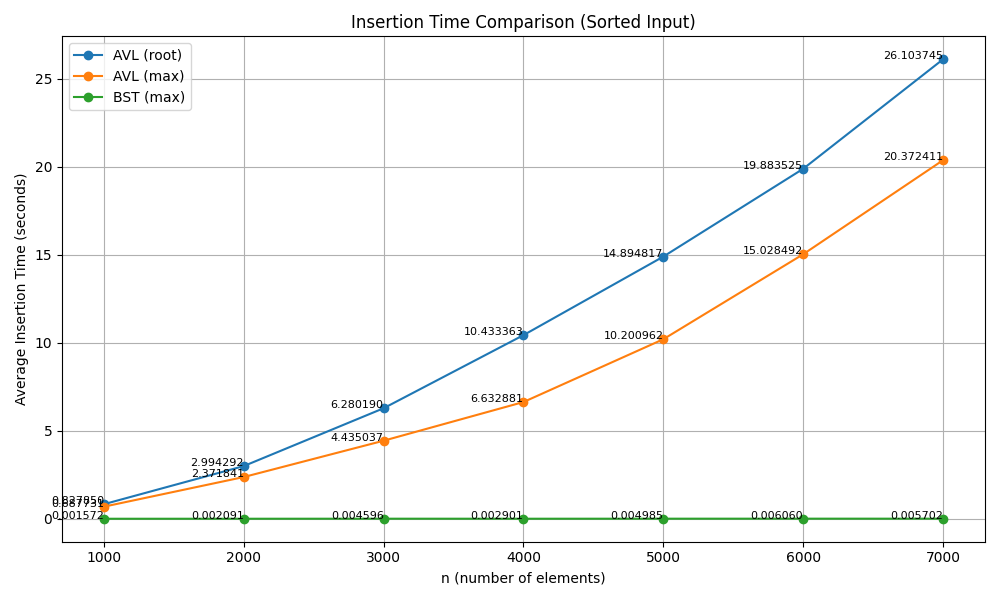
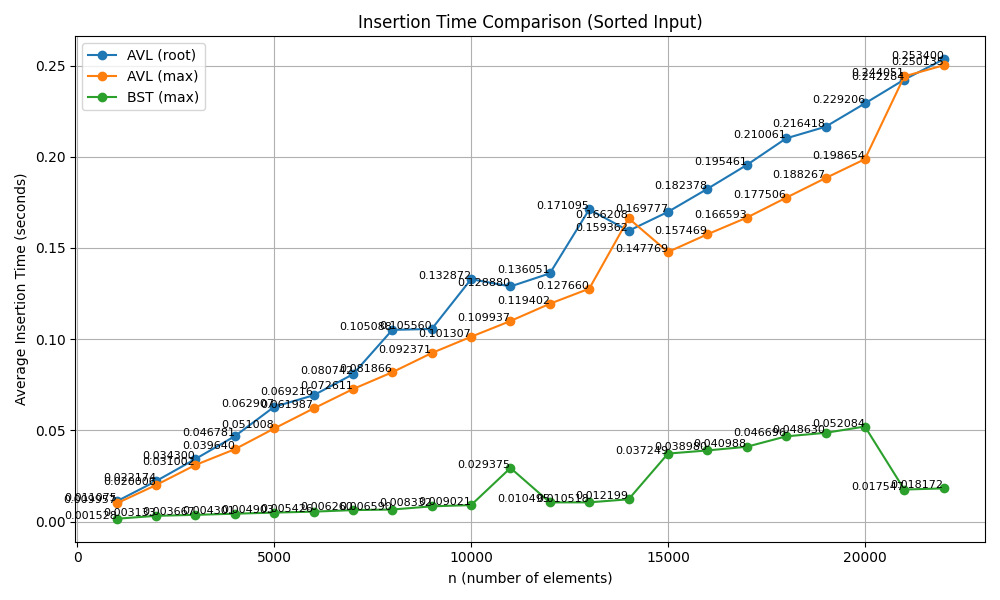
update and rebalance upwards function might fix the bug? working on it

diff --git a/avl_tree.py b/avl_tree.py
@@ -124,7 +124,7 @@ class AVLTree(object):
             new_parent.parent.right = new_parent
         node.update_stats()
         new_parent.update_stats()
-        self.update_upwards(new_parent.parent)
+        self.update_and_rebalance_upwards(new_parent.parent)
         return new_parent
 
 
@@ -151,7 +151,7 @@ class AVLTree(object):
             new_root.parent.left = new_root
         node.update_stats()
         new_root.update_stats()
-        self.update_upwards(new_root.parent)
+        self.update_and_rebalance_upwards(new_root.parent)
         return new_root
 
 
@@ -339,9 +339,8 @@ class AVLTree(object):
 
         # Update metadata and rebalance
         new_node.update_stats()
-        self.update_upwards(parent)
         self.node_count += 1
-        return self.rebalance(parent)
+        return self.update_and_rebalance_upwards(parent)
 
 
     """deletes node from the dictionary
@@ -387,9 +386,9 @@ class AVLTree(object):
                 self.max_node = curr
             else:
                 self.max_node = prev
-        self.update_upwards(rebalance_start)
+        self.update_and_rebalance_upwards(rebalance_start)
         self.node_count -= 1
-        return self.rebalance(rebalance_start)
+        return self.update_and_rebalance_upwards(rebalance_start)
 
     def transplant(self, u, v):
         if u.parent is None:
@@ -441,6 +440,44 @@ class AVLTree(object):
                 break  # Stop if height remains unchanged
             node = node.parent
 
+    def update_and_rebalance_upwards(self, node):
+        """Update stats and rebalance the tree starting from the given node upwards to the root.
+
+        @type node: AVLNode
+        @rtype: int
+        @returns: number of rotations performed
+        """
+        rotations = 0
+        while node:
+            old_height = node.height
+            node.update_stats()
+            bf = node.balance_factor()
+
+            # Perform rotations if needed
+            if bf > 1:
+                if node.left.balance_factor() < 0:
+                    node.left = self.rotate_left(node.left)
+                    rotations += 1
+                node = self.rotate_right(node)
+                rotations += 1
+            elif bf < -1:
+                if node.right.balance_factor() > 0:
+                    node.right = self.rotate_right(node.right)
+                    rotations += 1
+                node = self.rotate_left(node)
+                rotations += 1
+
+            # Stop if height hasn't changed
+            if node.height == old_height:
+                break
+
+            # Update root if necessary
+            if node.parent is None:
+                self.root = node
+
+            node = node.parent
+
+        return rotations
     
 
     def _get_balance(self, node):

diff --git a/second_experiment/compare_specific_sorted_input.py b/second_experiment/compare_specific_sorted_input.py
@@ -2,7 +2,6 @@ import time
 import sys
 import os
 import matplotlib.pyplot as plt
-from concurrent.futures import ProcessPoolExecutor
 
 sys.path.append(os.path.abspath(os.path.join(os.path.dirname(__file__), '..')))
 
@@ -31,11 +30,14 @@ def experiment_task(args):
 def run_experiment(sizes, repeats=5):
     results = {"AVL (root)": [], "AVL (max)": [], "BST (max)": []}
 
-    with ProcessPoolExecutor() as executor:
-        for n, avl_sorted_time, avl_max_time, bst_max_time in executor.map(experiment_task, [(n, repeats) for n in sizes]):
-            results["AVL (root)"].append((n, avl_sorted_time))
-            results["AVL (max)"].append((n, avl_max_time))
-            results["BST (max)"].append((n, bst_max_time))
+    for n in sizes:
+        avl_sorted_time = sum(time_insertion(AVLTree, "root", generate_sorted(n)) for _ in range(repeats)) / repeats
+        avl_max_time = sum(time_insertion(AVLTree, "max", generate_sorted(n)) for _ in range(repeats)) / repeats
+        bst_max_time = sum(time_insertion(BSTree, "max", generate_sorted(n)) for _ in range(repeats)) / repeats
+
+        results["AVL (root)"].append((n, avl_sorted_time))
+        results["AVL (max)"].append((n, avl_max_time))
+        results["BST (max)"].append((n, bst_max_time))
 
     return results
 
@@ -59,7 +61,7 @@ def plot_results(results, folder):
     print(f"Saved graph: {out_path}")
 
 if __name__ == "__main__":
-    sizes_to_test = [1000, 2000, 3000, 4000, 5000, 6000, 7000]
+    sizes_to_test = [1000  * i for i in range(1, 23)] 
     start_time = time.time()
     results = run_experiment(sizes_to_test)
     plot_results(results, os.path.dirname(__file__))

diff --git a/second_experiment/insertion_exp.py b/second_experiment/insertion_exp.py
@@ -99,7 +99,7 @@ def plot_results(results, folder):
 
 if __name__ == "__main__":
     import time
-    sizes_to_test = [10,  200, 500, 1000, 1500, 1700, 2000, 2500, 3000]
+    sizes_to_test = [10,  200, 500, 1000, 1500, 1700, 2000, 2500, 3000, 4000, 5000, 6000, 7000]
     start_time = time.time()
     results = run_all_experiments(sizes_to_test)
     # results = run_sorted_experiments(sizes_to_test)
